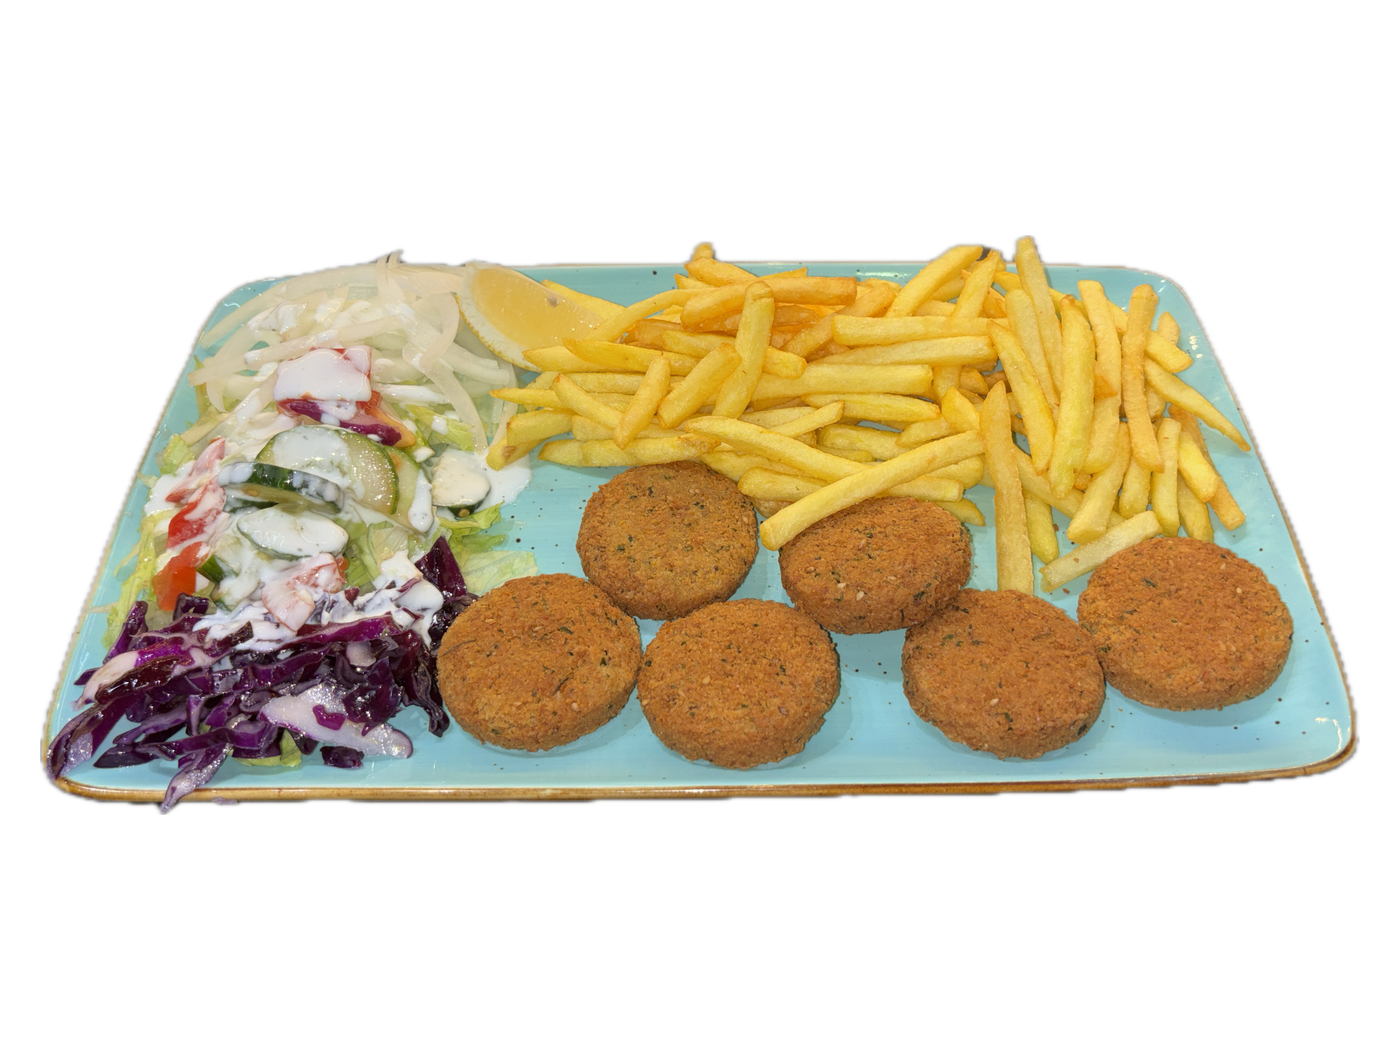
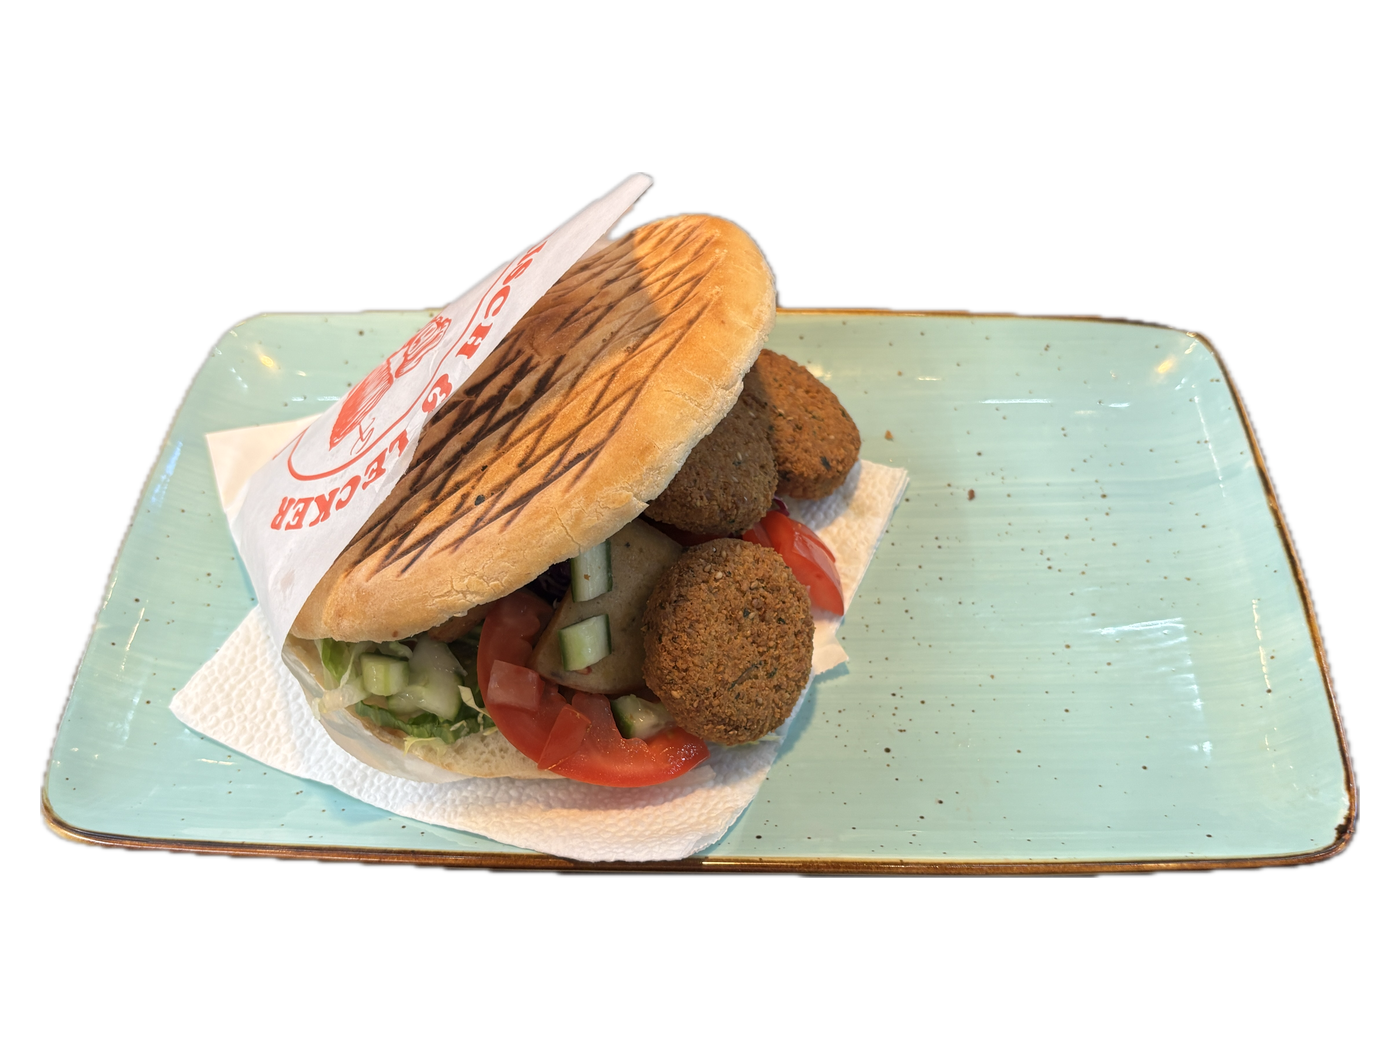
board2: neues Falafel Sandwich Foto (8.png)

diff --git a/board2.html b/board2.html
@@ -226,7 +226,7 @@ body{font-family:"Raleway",system-ui,sans-serif;color:#FFF5E0;cursor:none;
 </div>
 <div class="vignette"></div>
 <script>
-const v="?v="+"20261017i";
+const v="?v="+"20261017j";
 const SLIDES=[
   {
     title:"Döner &amp; Mehr",
